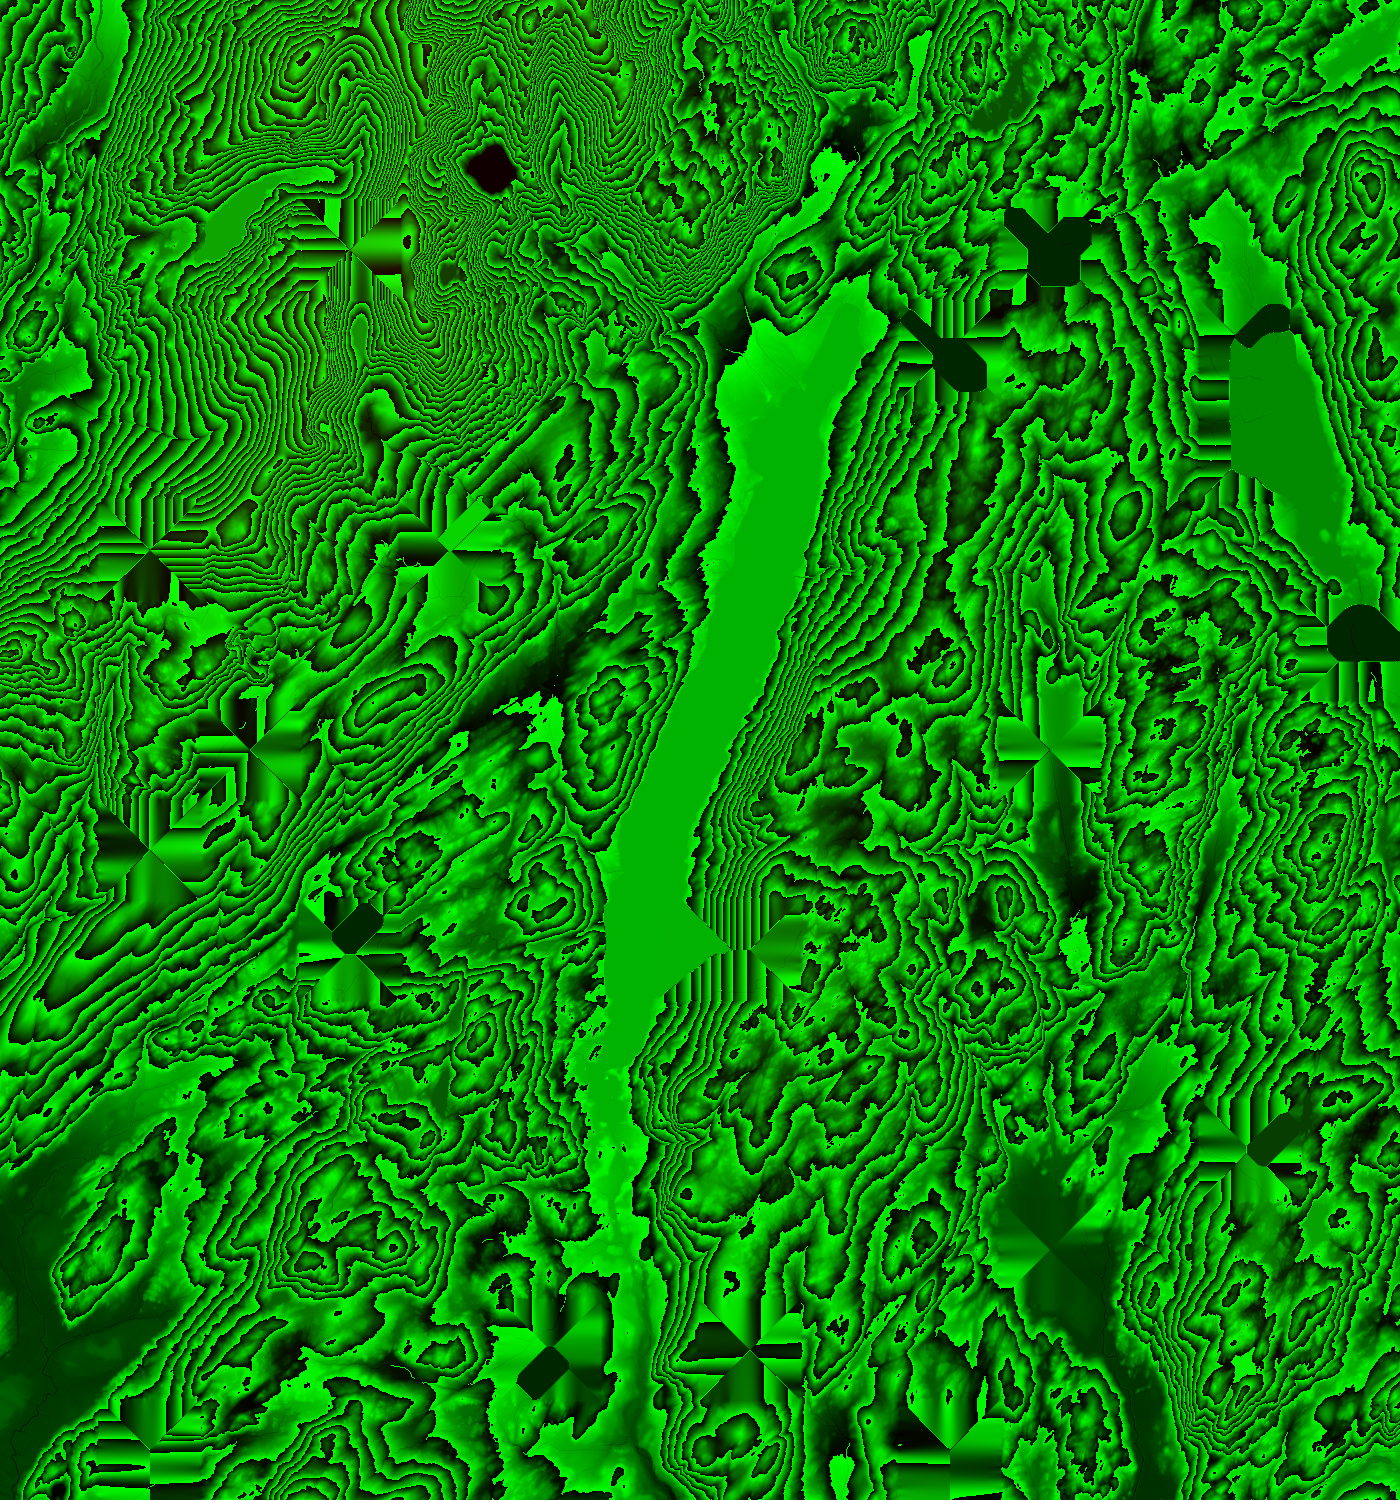
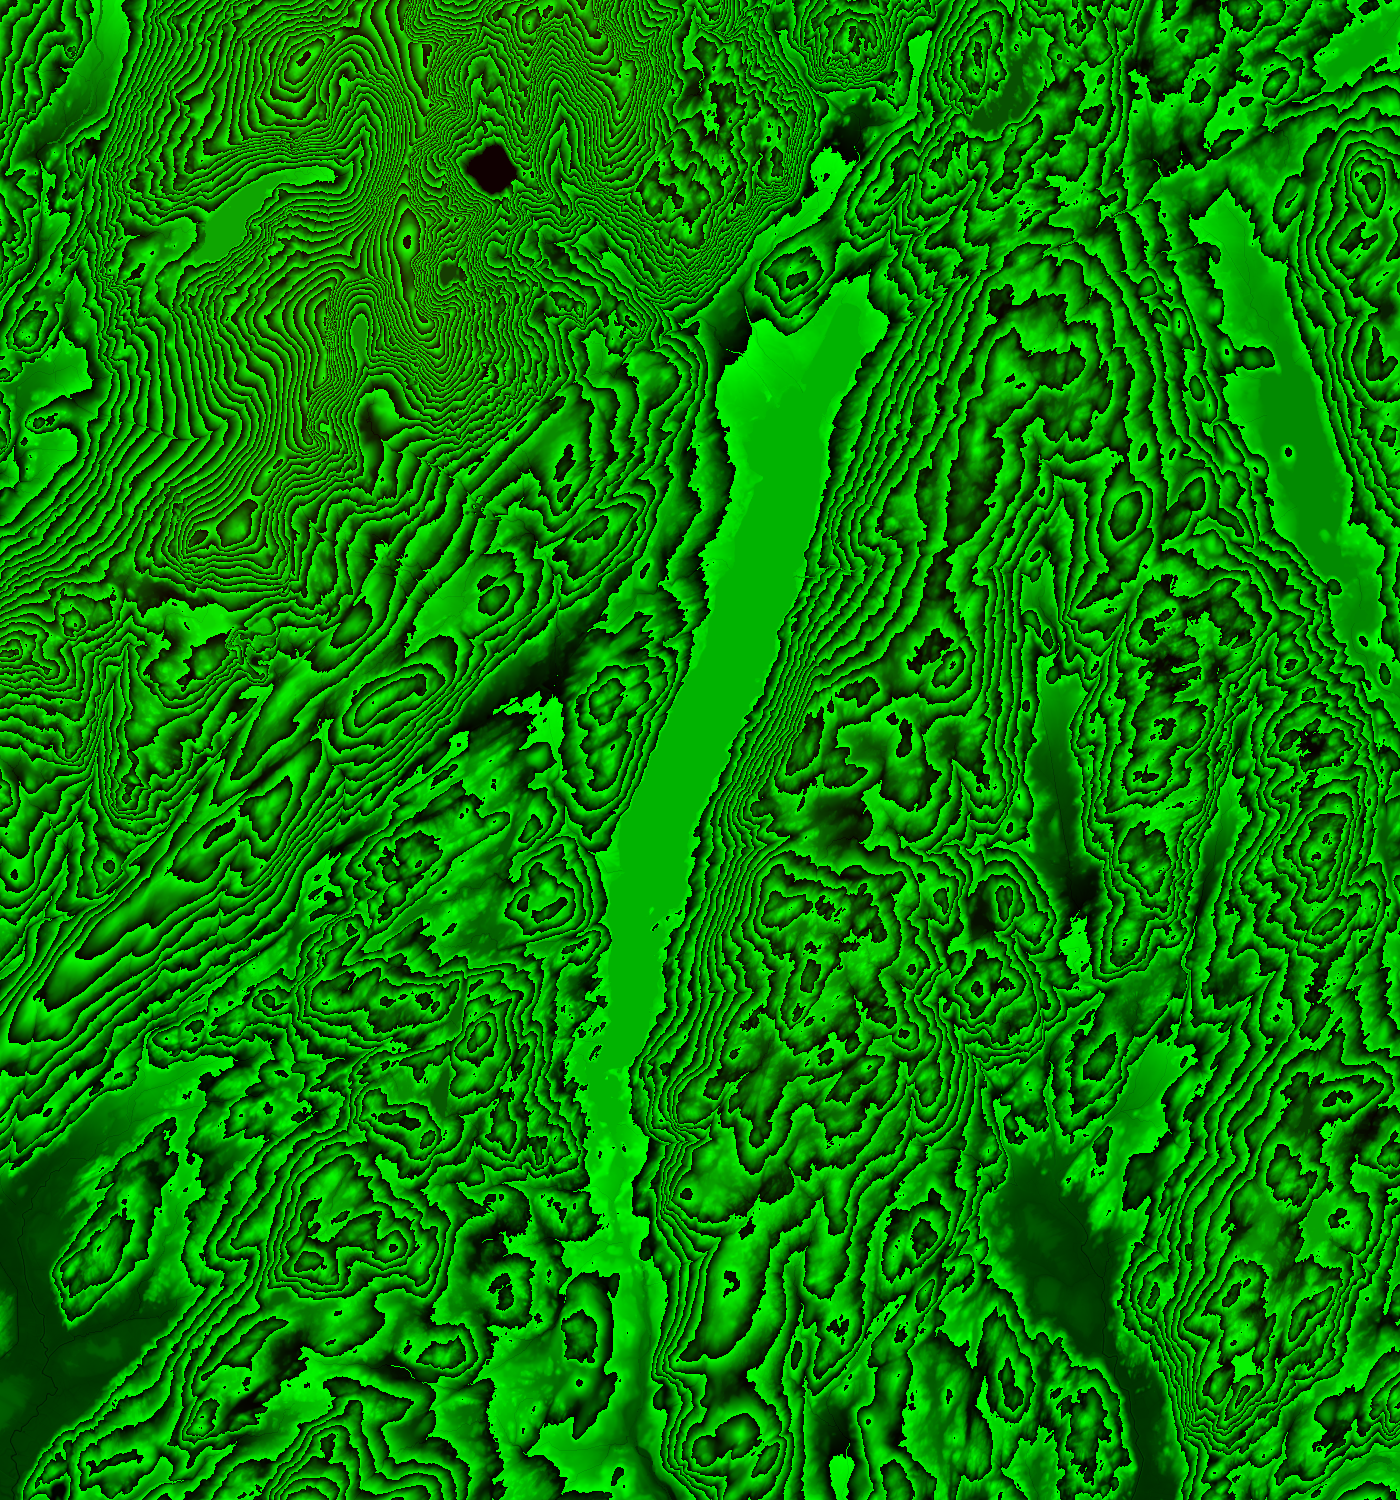
Coniston map: refetch the 20 missing LiDAR squares (they had been filled into diamond plateaus and pits); build script refetches empty squares from a cache

diff --git a/scripts/build-lakemap-lidar.py b/scripts/build-lakemap-lidar.py
@@ -51,14 +51,17 @@ def fetch(job):
 
 jobs = [(ci, cj) for cj in range(GH // K) for ci in range(GW // K)]
 done = 0
-if CACHE and os.path.exists(CACHE): height[:] = np.load(CACHE); jobs = []
-with ThreadPoolExecutor(4) as ex:
+if CACHE and os.path.exists(CACHE):
+    height[:] = np.load(CACHE)       # (a square the service failed to give is all no-data: fetch just those again)
+    jobs = [(ci, cj) for ci, cj in jobs if np.isnan(height[cj * K:(cj + 1) * K, ci * K:(ci + 1) * K]).all()]
+    print('refetching', len(jobs), 'missing squares', flush=True)
+with ThreadPoolExecutor(2) as ex:
     for ci, cj, a in ex.map(fetch, jobs):
         done += 1
         if a is not None: height[cj * K:(cj + 1) * K, ci * K:(ci + 1) * K] = a
         if done % 20 == 0: print('fetched', done, '/', len(jobs), flush=True)
 
-if CACHE and not os.path.exists(CACHE): np.save(CACHE, height)
+if CACHE and (not os.path.exists(CACHE) or jobs): np.save(CACHE, height)
 nodata = np.isnan(height)
 print('no-data tiles', int(nodata.sum()), 'of', GW * GH, flush=True)
 
